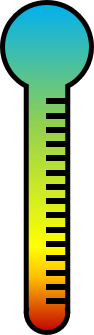
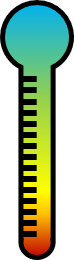
switch

Changed region(s): [[0.027, 0.0, 0.973, 1.0], [0.973, 0.0923, 1.0, 0.1846], [0.0, 0.0923, 0.027, 0.1846]]

diff --git a/other/educationPsychology/javascript/analyze.js b/other/educationPsychology/javascript/analyze.js
@@ -6,6 +6,16 @@ function analyzeSummary(){
   analyzeInitial();
   return;
 }
+function selectChart(chart_type){
+  if(chart_type=="radar"){
+    $(".a4-chart").show();
+    $(".a4-chart2").hide();
+  }
+  else if(chart_type=="skillBar"){
+    $(".a4-chart2").show();
+    $(".a4-chart").hide();
+  }
+}
 function drawChart(score_id, cur_score_all){  
   let canvas = document.getElementById("canvas_" + score_id);
   let ctx = canvas.getContext('2d');
@@ -48,7 +58,6 @@ function drawChart2(cur_student, score_id, cur_score_all){
     cur_skillBar_name.innerHTML = labels[i]
     cur_student.find(".a4-skillbar-names").append(cur_skillBar_name);
   }
-
 }
 function analyze(quizzes, score, week){
   // For each student 
@@ -104,12 +113,23 @@ function analyze(quizzes, score, week){
     // Edit A4
     cur_student.find(".student_id").text(score[i]["姓名"])
     cur_student.find(".chart_container canvas").attr("id", "canvas_" + score[i]["學號"]);
-    cur_student.appendTo($("#students_container"));    
+    cur_student.appendTo($("#students_container"));     
     // Canvas Radar
-    //drawChart(score[i]["學號"], cur_score_all)
-    //cur_student.find(".a4-chart").show();
+    drawChart(score[i]["學號"], cur_score_all)
     // Canvas SkillBar
     drawChart2(cur_student, score[i]["學號"], cur_score_all)
+    if(document.getElementById("radio_chart_radar").checked) {        
+      // Canvas Radar
+      //drawChart(score[i]["學號"], cur_score_all)
+      cur_student.find(".a4-chart").show();
+      cur_student.find(".a4-chart2").hide();
+    }
+    else if(document.getElementById("radio_chart_skillBar").checked){
+      // Canvas SkillBar
+      //drawChart2(cur_student, score[i]["學號"], cur_score_all)
+      cur_student.find(".a4-chart2").show();
+      cur_student.find(".a4-chart").hide();
+    }
 
     all_score_all.push(cur_score_all);
   }
@@ -257,8 +277,8 @@ function checkDuplicateID() {
 $(document).ready(function (e) {
   // Debug
   checkDuplicateID();
-  $("#ClickMEE2").click();
-  $("#ClickMEE").click();
+  //$("#ClickMEE2").click();
+  //$("#ClickMEE").click();
   $("div a[href='#main-body']").on('click', function (event) {
     if (this.hash !== "") {
       event.preventDefault();

diff --git a/other/educationPsychology/analyze.html b/other/educationPsychology/analyze.html
@@ -43,7 +43,7 @@
                             </div>
                         </th>
                     </tr>
-                    <tr class="a4-skillbar-names">                        
+                    <tr class="a4-skillbar-names">     
                     </tr>
                 </table>
             </div>      
@@ -113,6 +113,10 @@
             </table>
             </div>
             <!-- Buttonas -->
+            <div>                
+                <input id="radio_chart_radar" type="radio" name="chart_type" value="radar" checked="checked" onclick="selectChart('radar')"> 雷達圖<br>
+                <input id="radio_chart_skillBar" type="radio" name="chart_type" value="skillBar" onclick="selectChart('skillBar')"> 溫度計<br>
+            </div>
             <div id="dashboard-buttons">
                 產生成績單 根據:
                 <button type="button" onclick="calculateWeek(0)">老師他評</button>

diff --git a/other/educationPsychology/css/analyze.css b/other/educationPsychology/css/analyze.css
@@ -161,17 +161,17 @@ section.student-container{
 }
 .a4-chart2 .a4-skillName{
   font-size: 20px;
-  width: 100px;
+  width: 74px;
   background-color: rgb(255, 255, 255);
 }
 .a4-chart2 .a4-skillBarContainer{  
   transform: scaleY(-1);
-  width: 94px;
-  height: 335px;
+  width: 74px;
+  height: 260px;
   background-image: url('../src/thermometer_empty.png')
 }
 .a4-chart2 .a4-skillBar{
-  width: 94px;
+  width: 74px;
   background-image: url('../src/thermometer.png')
 }
 .a4-reviewTitle{
